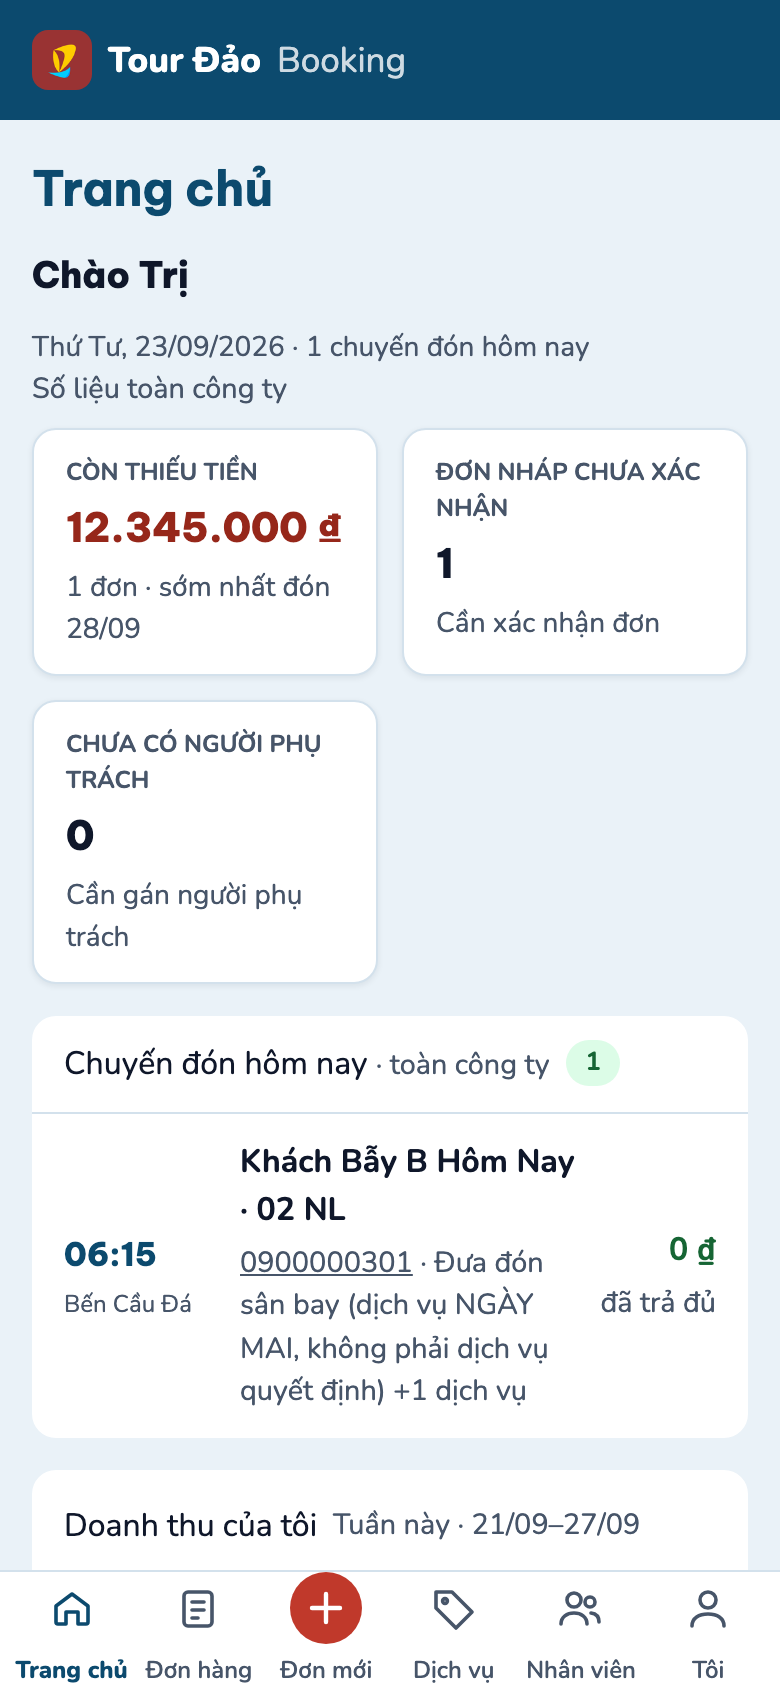
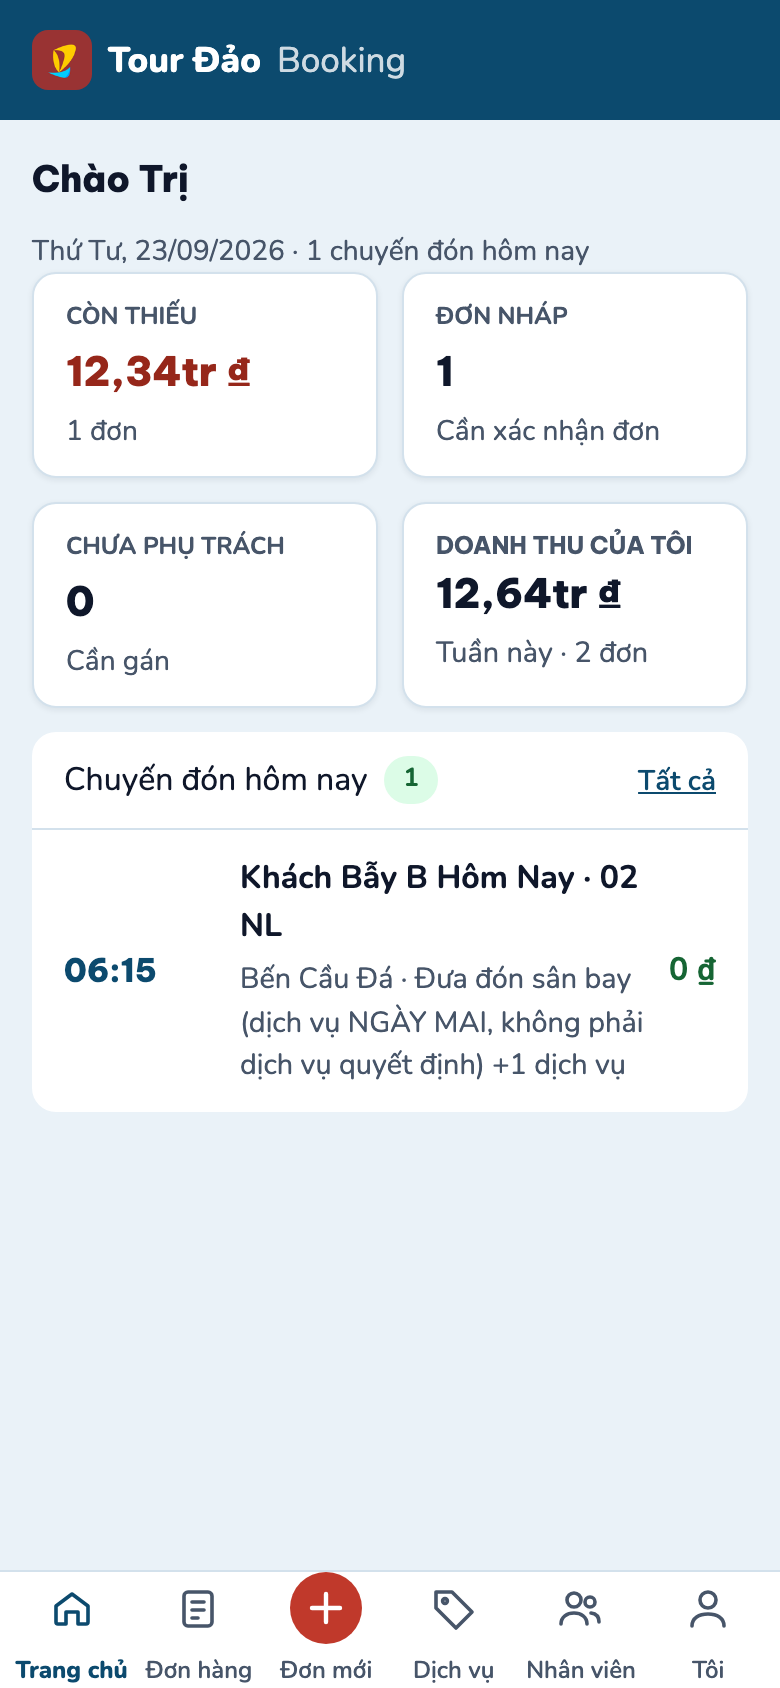
Đợt D Task 1: Trang chủ đúng mockup phần nội dung và khổ điện thoại
Sửa lệch mockup trong khung điều hướng hiện tại (không đụng thanh bên
dọc, để dành Task 4):
- Khổ điện thoại: gộp "Doanh thu của tôi" thành ô thứ tư của lưới 2×2
  (đặc tả §3 đã ghi rõ điều này, mã cũ tách riêng khiến doanh thu rơi
  khỏi màn hình đầu) — #dash-stats/#dash-layout gộp thành một khối
  #dash-grid, dùng display:contents + grid-column/row để không lồng
  div bọc mới và giữ đúng thứ tự đọc DOM ở điện thoại.
- Nhãn, dòng phụ, số tiền rút gọn ở ≤639px (CÒN THIẾU/ĐƠN NHÁP/CHƯA
  PHỤ TRÁCH, "900k"/"1,2tr"/"8,78tr") qua cặp .lbl-full/.lbl-short —
  thêm hàm thuần vndShort() (test đỏ→xanh riêng).
- Thêm liên kết "Xem tất cả"/"Tất cả" ở đầu "Chuyến đón hôm nay".
- Bỏ H1 "Trang chủ" to màu xanh (mockup không có) nhưng vẫn giữ h1
  cho trình đọc màn hình bằng kỹ thuật ẩn-khỏi-mắt đã dùng sẵn trong
  dự án (.detail-head h1) — đặt tên chung .visually-hidden.
- Chip "Đang ở chế độ bảo trì" đẩy sang phải cùng dòng chào.
- Dòng phụ của chuyến đón: nơi đón đứng trước tên dịch vụ ở điện
  thoại (khớp mockup), giữ nguyên tắc nơi đón luôn lấy từ dữ liệu
  chuyến (o.trip), không suy ra từ dịch vụ được nêu tên.
- Bỏ nhãn "Số liệu toàn công ty"/"· toàn công ty" (mockup không có;
  nhãn trên từng ô đã đủ phân biệt "của tôi" so với "toàn công ty").
- Thêm viền/bóng cho thẻ "Doanh thu của tôi" (lệch mockup nhỏ, tiện
  sửa cùng lúc vì đang cấu trúc lại toàn bộ vùng này).

Sửa kịch bản Chrome trang-chu-smoke.mjs cho khớp cấu trúc DOM mới
[…]

diff --git a/web/home.ts b/web/home.ts
@@ -1,35 +1,33 @@
 import { ApiError, api, type Api, type OrderSummary } from "./api";
 import { byId, h, replaceChildren, type Child } from "./dom";
-import { dayMonth, paxCounts, vnd } from "./format";
+import { dayMonth, paxCounts, vnd, vndShort } from "./format";
 import { initShell, showError } from "./shell";
 
-/** Một ô số liệu (dạng liên kết về "/", như bản thiết kế) — ba ô đầu là số liệu TOÀN CÔNG TY (tiêu đề "Số liệu toàn công ty" ở trên nhóm này, không lặp lại ở từng ô). */
-function statTile(label: string, value: string, sub: string, valueClass?: string): HTMLElement {
+/**
+ * Một ô số liệu (dạng liên kết về "/", như bản thiết kế) — ba ô đầu là số liệu TOÀN CÔNG TY.
+ * Mỗi phần (nhãn/giá trị/dòng phụ) có hai bản: đầy đủ (`.lbl-full`, máy tính) và rút gọn (`.lbl-short`, khổ điện
+ * thoại ≤639px) — CSS ẩn/hiện theo khổ màn hình (`public/app.css`), không đổi DOM bằng JS.
+ */
+function statTile(labelFull: string, labelShort: string, valueFull: string, valueShort: string, subFull: string, subShort: string, valueClass?: string): HTMLElement {
   return h(
     "a",
     { class: "dash-stat", href: "/" },
-    h("span", { class: "dash-stat-label" }, label),
-    h("span", { class: valueClass ? `dash-stat-value ${valueClass}` : "dash-stat-value" }, value),
-    h("span", { class: "dash-stat-sub" }, sub),
+    h("span", { class: "dash-stat-label" }, h("span", { class: "lbl-full" }, labelFull), h("span", { class: "lbl-short" }, labelShort)),
+    h("span", { class: valueClass ? `dash-stat-value ${valueClass}` : "dash-stat-value" }, h("span", { class: "lbl-full" }, valueFull), h("span", { class: "lbl-short" }, valueShort)),
+    h("span", { class: "dash-stat-sub" }, h("span", { class: "lbl-full" }, subFull), h("span", { class: "lbl-short" }, subShort)),
   );
 }
 
 function renderStats(data: Api.DashboardResponse): void {
   const { unpaid, draftCount, unassignedCount } = data;
+  const unpaidSubFull = unpaid.count === 0 ? "Không có đơn nào" : `${unpaid.count} đơn${unpaid.earliestDate ? ` · sớm nhất đón ${dayMonth(unpaid.earliestDate)}` : ""}`;
+  const unpaidSubShort = unpaid.count === 0 ? "Không có đơn nào" : `${unpaid.count} đơn`;
   replaceChildren(
     byId("dash-stats"),
-    statTile(
-      "Còn thiếu tiền",
-      vnd(unpaid.total),
-      unpaid.count === 0 ? "Không có đơn nào" : `${unpaid.count} đơn${unpaid.earliestDate ? ` · sớm nhất đón ${dayMonth(unpaid.earliestDate)}` : ""}`,
-      "money-due",
-    ),
-    statTile("Đơn nháp chưa xác nhận", String(draftCount), "Cần xác nhận đơn"),
-    statTile("Chưa có người phụ trách", String(unassignedCount), "Cần gán người phụ trách"),
+    statTile("Còn thiếu tiền", "Còn thiếu", vnd(unpaid.total), `${vndShort(unpaid.total)} ₫`, unpaidSubFull, unpaidSubShort, "money-due"),
+    statTile("Đơn nháp chưa xác nhận", "Đơn nháp", String(draftCount), String(draftCount), "Cần xác nhận đơn", "Cần xác nhận đơn"),
+    statTile("Chưa có người phụ trách", "Chưa phụ trách", String(unassignedCount), String(unassignedCount), "Cần gán người phụ trách", "Cần gán"),
   );
-  // Chỉ hiện sau khi có số thật — tránh khối rỗng đọng lại lúc đang tải/lỗi.
-  byId("dash-stats-label").hidden = false;
-  byId("dash-stats").hidden = false;
 }
 
 /**
@@ -38,15 +36,27 @@ function renderStats(data: Api.DashboardResponse): void {
  * Vì vậy giờ đón VÀ nơi đón (cùng đến từ dịch vụ quyết định) LUÔN đứng CHUNG một cụm bên trái (`.dash-today-when`); tên dịch vụ
  * (`serviceNames[0]`, có thể là dịch vụ khác) chỉ xuất hiện ở dòng phụ bên phải cùng SĐT, KHÔNG bao giờ đứng cạnh nơi đón — tránh gợi ý
  * sai rằng nơi đón đó thuộc về dịch vụ được nêu tên. Đừng gộp lại "cho gọn": hai cụm cố ý tách theo hai nguồn dữ liệu khác nhau.
+ *
+ * Đợt D Task 1 (đúng mockup điện thoại): ở khổ ≤639px KHÔNG đủ chỗ cho SĐT + cụm giờ/nơi đón riêng, nên dòng phụ đổi thành
+ * "nơi đón · tên dịch vụ" và `.dash-today-place` trong `.dash-today-when` ẩn đi (CSS `display:none`, không phải kỹ thuật ẩn-cho-mắt —
+ * tránh trình đọc màn hình đọc nơi đón hai lần). Đây CHỈ là chỗ HIỂN THỊ khác nhau theo khổ màn hình, dữ liệu nguồn vẫn luôn là
+ * `o.trip.pickupPlace` (không suy ra từ `serviceNames`) — nguyên tắc "nơi đón không thuộc dịch vụ được nêu tên" vẫn giữ nguyên ở tầng dữ liệu;
+ * chỉ khác là bản rút gọn buộc phải đặt hai cụm cạnh nhau trên cùng một dòng vì máy hẹp, không còn hai cụm tách biệt như bản đầy đủ.
  */
 function todayRow(o: OrderSummary): HTMLElement {
   const time = o.trip.pickupTime ?? "—";
   const pax = paxCounts(o.pax);
   const serviceLine = o.serviceNames.length === 0 ? "—" : o.serviceNames.length === 1 ? o.serviceNames[0] : `${o.serviceNames[0]} +${o.serviceNames.length - 1} dịch vụ`;
+  const mobileSubText = o.trip.pickupPlace ? `${o.trip.pickupPlace} · ${serviceLine}` : serviceLine;
   const sub: Child[] = [
-    h("span", { class: "order-row-phone", onclick: (e: Event) => { e.preventDefault(); e.stopPropagation(); location.href = `tel:${o.customerPhone}`; } }, o.customerPhone),
-    " · ",
-    serviceLine,
+    h(
+      "span",
+      { class: "lbl-full" },
+      h("span", { class: "order-row-phone", onclick: (e: Event) => { e.preventDefault(); e.stopPropagation(); location.href = `tel:${o.customerPhone}`; } }, o.customerPhone),
+      " · ",
+      serviceLine,
+    ),
+    h("span", { class: "lbl-short" }, mobileSubText),
   ];
   const when: Child[] = [h("span", { class: "dash-today-time" }, time)];
   if (o.trip.pickupPlace) when.push(h("span", { class: "dash-today-place" }, o.trip.pickupPlace));
@@ -58,13 +68,13 @@ function todayRow(o: OrderSummary): HTMLElement {
       "span",
       { class: "dash-today-main" },
       h("span", { class: "dash-today-name" }, o.customerName, pax ? ` · ${pax}` : false),
-      h("span", { class: "muted" }, ...sub),
+      h("span", { class: "muted dash-today-sub" }, ...sub),
     ),
     h(
       "span",
       { class: "dash-today-money" },
-      h("b", { class: o.remainingAmount === 0 ? "money-ok" : "money-due" }, vnd(o.remainingAmount)),
-      h("span", { class: "muted" }, o.remainingAmount === 0 ? "đã trả đủ" : "còn lại"),
+      h("b", { class: o.remainingAmount === 0 ? "money-ok" : "money-due" }, h("span", { class: "lbl-full" }, vnd(o.remainingAmount)), h("span", { class: "lbl-short" }, o.remainingAmount === 0 ? vnd(0) : vndShort(o.remainingAmount))),
+      h("span", { class: "muted lbl-full" }, o.remainingAmount === 0 ? "đã trả đủ" : "còn lại"),
     ),
   );
 }
@@ -81,8 +91,8 @@ function renderRevenue(rev: Api.DashboardResponse["revenueWeek"]): void {
   byId("dash-revenue-range").textContent = `Tuần này · ${dayMonth(rev.from)}–${dayMonth(rev.to)}`;
   replaceChildren(
     byId("dash-revenue-total"),
-    h("span", { class: "dash-revenue-value" }, vnd(rev.total)),
-    h("span", { class: "muted" }, `${rev.count} đơn đã xác nhận`),
+    h("span", { class: "dash-revenue-value" }, h("span", { class: "lbl-full" }, vnd(rev.total)), h("span", { class: "lbl-short" }, `${vndShort(rev.total)} ₫`)),
+    h("span", { class: "muted" }, h("span", { class: "lbl-full" }, `${rev.count} đơn đã xác nhận`), h("span", { class: "lbl-short" }, `Tuần này · ${rev.count} đơn`)),
   );
 }
 
@@ -104,7 +114,7 @@ async function main(): Promise<void> {
     renderToday(data.today);
     renderRevenue(data.revenueWeek);
     // Chỉ hiện khối nội dung SAU KHI dựng xong dữ liệu thật — lúc đang tải/lỗi giữ ẩn (tránh khối rỗng đọng lại cạnh skeleton/banner lỗi).
-    byId("dash-layout").hidden = false;
+    byId("dash-grid").hidden = false;
   } catch (err) {
     loadingEl.hidden = true;
     byId("dash-date").textContent = `${weekday}, ${dateStr}`;

diff --git a/public/app.css b/public/app.css
@@ -537,25 +537,29 @@ body.maint-open { overflow: hidden; }
 }
 
 /* ---------- Trang chủ mới (/home, web/home.ts) — chỉ token ---------- */
+/* Ẩn khỏi mắt ở MỌI khổ màn hình nhưng vẫn còn cho trình đọc màn hình — cùng kỹ thuật với .detail-head h1 và
+   body[data-title] main > h1 đã dùng ở các trang khác (đặt tên chung để dùng lại, không phải kỹ thuật mới). */
+.visually-hidden { position: absolute; width: 1px; height: 1px; margin: -1px; padding: 0; overflow: hidden; clip: rect(0 0 0 0); white-space: nowrap; border: 0; }
 .dash-hello { display: flex; align-items: baseline; gap: var(--s3); flex-wrap: wrap; }
 .dash-name { font-family: var(--font-display); font-weight: 800; font-size: var(--fs-title); }
 .dash-date { color: var(--c-text-muted); font-size: var(--fs-label); }
-.dash-stats-label { margin: 0 0 var(--s2); }
+#dash-maint { margin-left: auto; } /* chip bảo trì đẩy sang phải cùng dòng chào (bản mẫu), không nối tiếp sau ngày */
+/* Nhãn/ô đầy đủ (máy tính) — .lbl-short ẩn theo mặc định; đảo ngược ở khổ ≤639px. Dùng lại ở nhiều chỗ của Trang chủ
+   (nhãn ô số liệu, "Xem tất cả", tiền rút gọn…) — hai bản luôn cùng có mặt trong DOM, CSS chỉ ẩn/hiện, không đổi bằng JS. */
+.lbl-short { display: none; }
+@media (max-width: 639px) {
+  .lbl-full { display: none; }
+  .lbl-short { display: inline; }
+}
+.dash-grid { display: block; }
 .dash-stats { display: grid; grid-template-columns: repeat(3, minmax(0, 1fr)); gap: var(--s3); margin-bottom: var(--s4); }
 .dash-stat { display: flex; flex-direction: column; gap: var(--s1); padding: var(--s3) var(--s4); color: inherit; text-decoration: none; background: var(--c-card); border: 1px solid var(--c-border); border-radius: var(--radius-md); box-shadow: var(--shadow-card); }
 .dash-stat-label { font-size: var(--fs-badge); font-weight: 700; color: var(--c-text-muted); text-transform: uppercase; }
 .dash-stat-value { font-family: var(--font-display); font-weight: 800; font-size: var(--fs-stat); }
 .dash-stat-sub { font-size: var(--fs-label); color: var(--c-text-muted); }
-.dash-layout { display: block; }
-@media (min-width: 900px) {
-  .dash-layout { display: grid; grid-template-columns: 1.35fr 1fr; gap: var(--s5); align-items: start; }
-}
-@media (max-width: 639px) {
-  .dash-stats { grid-template-columns: repeat(2, minmax(0, 1fr)); }
-  .dash-stat-value { font-size: var(--fs-stat-sm); } /* kiểm gộp I-3: lưới 2 cột ở khổ hẹp không đủ chỗ cho --fs-stat (26px) — "₫" rơi xuống dòng riêng với số tiền lớn */
-}
 .dash-today { padding: 0; } /* .card cho padding mặc định; đầu mục + từng dòng tự chia lề (khuôn .list-card) */
 .dash-today-head { display: flex; align-items: center; gap: var(--s2); padding: var(--s3) var(--s4); border-bottom: 1px solid var(--c-border); }
+.dash-today-all { margin-left: auto; font-size: var(--fs-label); font-weight: 600; } /* liên kết tới trang Đơn hàng (bản mẫu) — chữ rút gọn "Tất cả" ở khổ điện thoại qua .lbl-full/.lbl-short */
 #dash-today-list { display: flex; flex-direction: column; } /* kiểm gộp (minor): public/home.html không có class "dash-today-list" trên phần tử này (chỉ id) — selector cũ .dash-today-list chết */
 .dash-today-row { display: flex; align-items: center; gap: var(--s3); padding: var(--s3) var(--s4); color: inherit; text-decoration: none; border-bottom: 1px solid var(--c-border); }
 .dash-today-row:last-child { border-bottom: 0; }
@@ -565,6 +569,32 @@ body.maint-open { overflow: hidden; }
 .dash-today-main { flex: 1; min-width: 0; display: flex; flex-direction: column; gap: var(--s1); }
 .dash-today-name { font-weight: 700; }
 .dash-today-money { flex: none; display: flex; flex-direction: column; align-items: flex-end; gap: var(--s1); text-align: right; }
+.dash-revenue { display: flex; flex-direction: column; border: 1px solid var(--c-border); box-shadow: var(--shadow-card); } /* .card không sẵn viền/bóng như các thẻ khác của Trang chủ mới (lệch bản mẫu nhỏ, tiện sửa cùng lúc — Đợt D Task 1) */
+.dash-revenue-title { font-family: var(--font-display); font-weight: 700; }
 .dash-revenue-head { display: flex; align-items: center; gap: var(--s2); margin-bottom: var(--s3); }
 .dash-revenue-total { display: flex; align-items: baseline; gap: var(--s2); flex-wrap: wrap; }
 .dash-revenue-value { font-family: var(--font-display); font-weight: 800; font-size: var(--fs-stat); }
+
+@media (max-width: 639px) {
+  /* Lưới 2×2 gộp cả "Doanh thu của tôi" (đặc tả §3: mockup mobile gộp doanh thu vào lưới, không tách riêng).
+     .dash-stats chuyển display:contents để 3 ô của nó "thoát" ra tham gia thẳng lưới ngoài (.dash-grid) cùng
+     .dash-revenue — không lồng div bọc mới, DOM vẫn đúng thứ tự đọc: 3 ô số liệu, doanh thu, rồi chuyến đón hôm nay. */
+  .dash-grid { display: grid; grid-template-columns: repeat(2, minmax(0, 1fr)); gap: var(--s3); }
+  .dash-stats { display: contents; }
+  .dash-stat-value { font-size: var(--fs-stat-sm); } /* kiểm gộp I-3: lưới 2 cột ở khổ hẹp không đủ chỗ cho --fs-stat (26px) — "₫" rơi xuống dòng riêng với số tiền lớn */
+  .dash-today { grid-column: 1 / -1; margin-bottom: 0; }
+  .dash-revenue { margin-bottom: 0; padding: var(--s3) var(--s4); } /* cùng đệm với .dash-stat để trông như ô thứ tư cùng hàng */
+  .dash-revenue-head { flex-direction: column; align-items: flex-start; gap: 0; margin-bottom: 0; }
+  .dash-revenue-title { font-size: var(--fs-badge); font-weight: 700; color: var(--c-text-muted); text-transform: uppercase; } /* cùng kiểu nhãn với .dash-stat-label */
+  #dash-revenue-range { display: none; } /* thay bằng dòng phụ rút gọn "Tuần này · N đơn" trong .dash-revenue-total */
+  .dash-revenue-total { flex-direction: column; align-items: flex-start; gap: var(--s1); }
+  .dash-revenue-value { font-size: var(--fs-stat-sm); }
+  .dash-today-place { display: none; } /* nơi đón chuyển sang đứng cạnh tên dịch vụ trong .dash-today-sub (không phải kỹ thuật ẩn-cho-mắt: display:none để trình đọc màn hình không đọc trùng hai lần) */
+}
+
+@media (min-width: 900px) {
+  .dash-grid { display: grid; grid-template-columns: 1.35fr 1fr; column-gap: var(--s5); row-gap: var(--s4); align-items: start; }
+  .dash-stats { grid-column: 1 / -1; margin-bottom: 0; } /* khoảng cách hàng đã do row-gap của .dash-grid lo, tránh cộng dồn với margin-bottom mặc định */
+  .dash-today { grid-column: 1; grid-row: 2; }
+  .dash-revenue { grid-column: 2; grid-row: 2; }
+}

diff --git a/public/home.html b/public/home.html
@@ -3,25 +3,29 @@
 <body>
 <header id="topbar"></header>
 <main>
-  <h1>Trang chủ</h1>
+  <!-- Bản mẫu không có H1 to trên trang (khung có sẵn của trang này chưa có thanh tiêu đề như bản mẫu sidebar — đó là việc của Đợt D khác) — h1 chỉ còn phục vụ trình đọc màn hình, ẩn khỏi mắt ở MỌI khổ (cùng kỹ thuật với .detail-head h1). -->
+  <h1 class="visually-hidden">Trang chủ</h1>
   <div class="dash-hello">
     <span id="dash-name" class="dash-name"></span>
     <span id="dash-date" class="dash-date"></span>
     <span id="dash-maint" class="badge badge-draft" hidden>Đang ở chế độ bảo trì</span>
   </div>
-  <p class="dash-stats-label muted" id="dash-stats-label" hidden>Số liệu toàn công ty</p>
-  <div id="dash-stats" class="dash-stats" hidden></div>
   <div id="error" class="alert" role="alert" hidden></div>
   <div id="loading" class="skeleton-list" aria-hidden="true"><div class="skeleton-row"></div><div class="skeleton-row"></div></div>
-  <div id="dash-layout" class="dash-layout" hidden>
+  <div id="dash-grid" class="dash-grid" hidden>
+    <div id="dash-stats" class="dash-stats"></div>
+    <section id="dash-revenue" class="card dash-revenue">
+      <div class="dash-revenue-head"><span class="dash-revenue-title">Doanh thu của tôi</span><span id="dash-revenue-range" class="muted"></span></div>
+      <div id="dash-revenue-total" class="dash-revenue-total"></div>
+    </section>
     <section id="dash-today" class="card dash-today">
-      <div class="dash-today-head"><span>Chuyến đón hôm nay <span class="muted">· toàn công ty</span></span><span id="dash-today-count" class="badge badge-confirmed" hidden></span></div>
+      <div class="dash-today-head">
+        <span>Chuyến đón hôm nay</span>
+        <span id="dash-today-count" class="badge badge-confirmed" hidden></span>
+        <a class="dash-today-all" href="/"><span class="lbl-full">Xem tất cả</span><span class="lbl-short">Tất cả</span></a>
+      </div>
       <div id="dash-today-list"></div>
       <p id="dash-today-empty" class="empty" hidden>Không có chuyến nào hôm nay.</p>
-    </section>
-    <section id="dash-revenue" class="card">
-      <div class="dash-revenue-head"><span>Doanh thu của tôi</span><span id="dash-revenue-range" class="muted"></span></div>
-      <div id="dash-revenue-total" class="dash-revenue-total"></div>
     </section>
   </div>
 </main>

diff --git a/web/format.ts b/web/format.ts
@@ -1,5 +1,5 @@
-import { AUDIT_ACTIONS } from "../src/shared/audit-actions";
-import { PAX_ORDER, type PaxCounts } from "../src/shared/order-lines";
+import { AUDIT_ACTIONS } from "../src/shared/audit-actions.ts";
+import { PAX_ORDER, type PaxCounts } from "../src/shared/order-lines.ts";
 import type { AuditAction, DepositMethod, OrderStatus } from "./api";
 
 const nf = new Intl.NumberFormat("vi-VN");
@@ -7,6 +7,23 @@ const nf = new Intl.NumberFormat("vi-VN");
 /** 1350000 → "1.350.000 ₫" */
 export const vnd = (n: number): string => `${nf.format(n)} ₫`;
 export const grouped = (n: number): string => nf.format(n);
+
+/**
+ * Tiền rút gọn cho khổ điện thoại hẹp (Trang chủ mới, Đợt D): 0 → "0", 900.000 → "900k", 1.200.000 → "1,2tr",
+ * 8.780.000 → "8,78tr", 24.150.000 → "24,15tr". KHÔNG bao giờ làm tròn LÊN (luôn cắt bớt phần dư) — số hiển thị không
+ * bao giờ lớn hơn số thật. Không tự thêm " ₫", gọi nơi dùng tự nối nếu cần (giống bản mẫu: có chỗ có "₫", có chỗ không).
+ */
+export function vndShort(n: number): string {
+  const sign = n < 0 ? "-" : "";
+  const abs = Math.abs(n);
+  if (abs < 1000) return `${sign}${abs}`;
+  if (abs < 1_000_000) return `${sign}${Math.floor(abs / 1000)}k`;
+  const hundredths = Math.floor(abs / 10_000); // 1 triệu = 100 đơn vị "phần trăm triệu"; cắt bớt, không làm tròn lên
+  const trieu = Math.floor(hundredths / 100);
+  const le = hundredths % 100;
+  const decimal = le === 0 ? "" : le % 10 === 0 ? `,${le / 10}` : `,${String(le).padStart(2, "0")}`;
+  return `${sign}${trieu}${decimal}tr`;
+}
 
 /** "1.350.000 đ" / "1350000" → 1350000; rỗng → 0. */
 export function parseMoney(text: string): number {

diff --git a/web/format.test.ts b/web/format.test.ts
@@ -1,0 +1,21 @@
+import { test } from "node:test";
+import assert from "node:assert/strict";
+import { vndShort } from "./format.ts";
+
+test("vndShort — tiền rút gọn cho khổ điện thoại", () => {
+  assert.equal(vndShort(0), "0");
+  assert.equal(vndShort(500), "500");
+  assert.equal(vndShort(999), "999");
+  assert.equal(vndShort(900_000), "900k");
+  assert.equal(vndShort(1_200_000), "1,2tr");
+  assert.equal(vndShort(8_780_000), "8,78tr");
+  assert.equal(vndShort(24_150_000), "24,15tr");
+  assert.equal(vndShort(10_000_000), "10tr"); // tròn triệu: không kéo theo ",00"
+  assert.equal(vndShort(-900_000), "-900k");
+  assert.equal(vndShort(-8_780_000), "-8,78tr");
+});
+
+test("vndShort — không bao giờ làm tròn LÊN (luôn cắt bớt)", () => {
+  assert.equal(vndShort(1_999), "1k"); // 1.999k thật ra là 1,999 nghìn — cắt bớt còn 1k, không lên 2k
+  assert.equal(vndShort(8_789_999), "8,78tr"); // 8,789999tr — cắt bớt còn 8,78tr, không lên 8,79tr
+});
